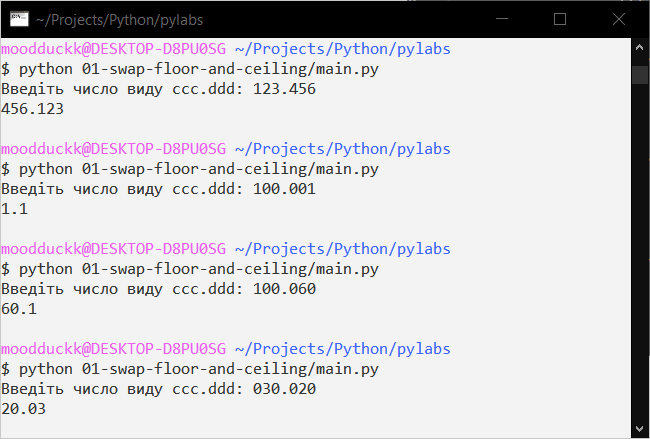
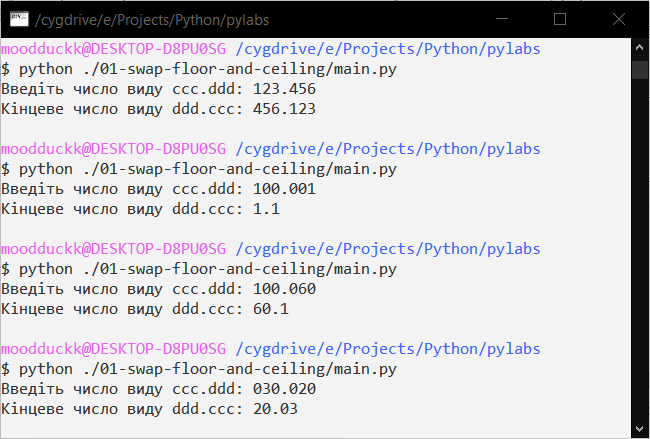
[lab 01] Add comments

diff --git a/01-swap-floor-and-ceiling/main.py b/01-swap-floor-and-ceiling/main.py
@@ -1,13 +1,13 @@
 #! /usr/bin/python
 
 def main():
-    a = float(input("Введіть число виду ccc.ddd: "))
+    a = float(input("Введіть число виду ccc.ddd: "))  # Вхіде число виду ccc.ddd
 
-    ccc = int(a)
-    ddd = round((a - ccc) * 10**3)
+    ccc = int(a)                    # Ціла частина вхідного числа
+    ddd = round((a - ccc) * 10**3)  # Дробова частина вхідного чила
 
-    result = ddd + ccc * 10**-3  # ddd.ccc
-    print(result)
+    result = ddd + ccc * 10**-3     # Кінцеве число виду ddd.ccc
+    print('Кінцеве число виду ddd.ccc:', result)
 
 
 if __name__ == "__main__":
